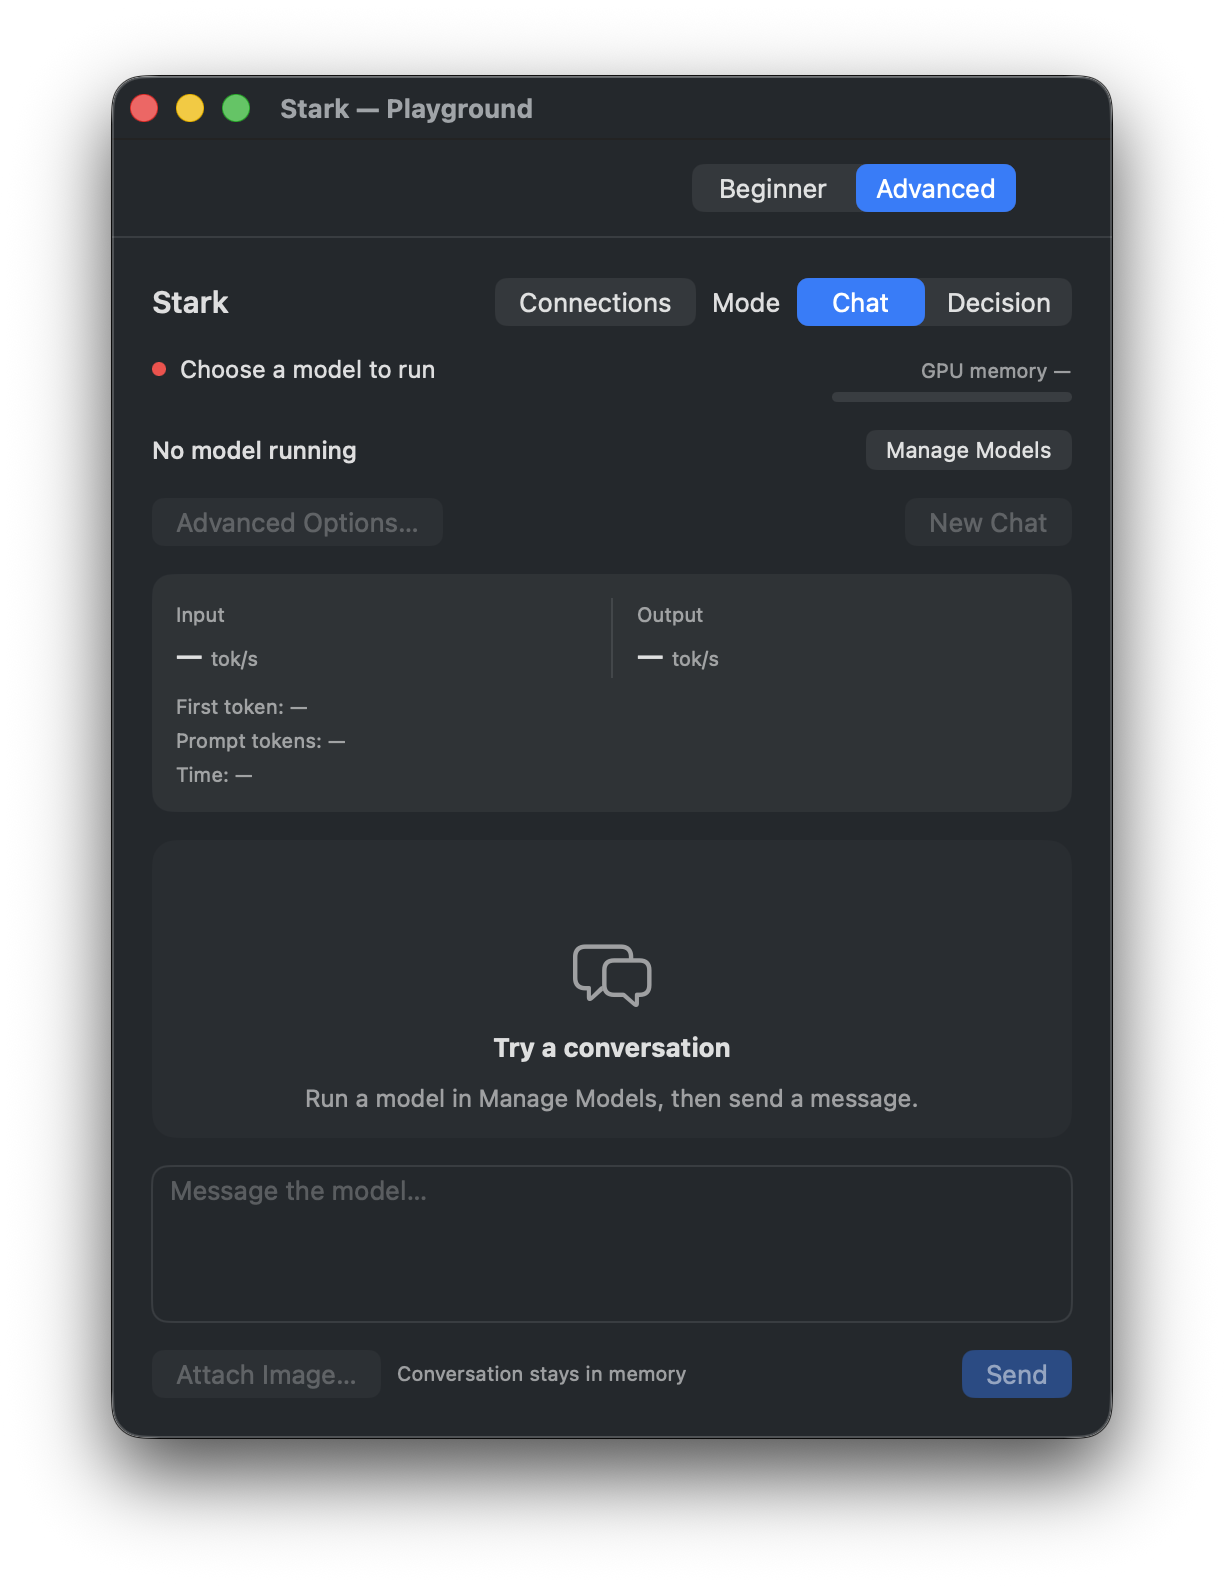
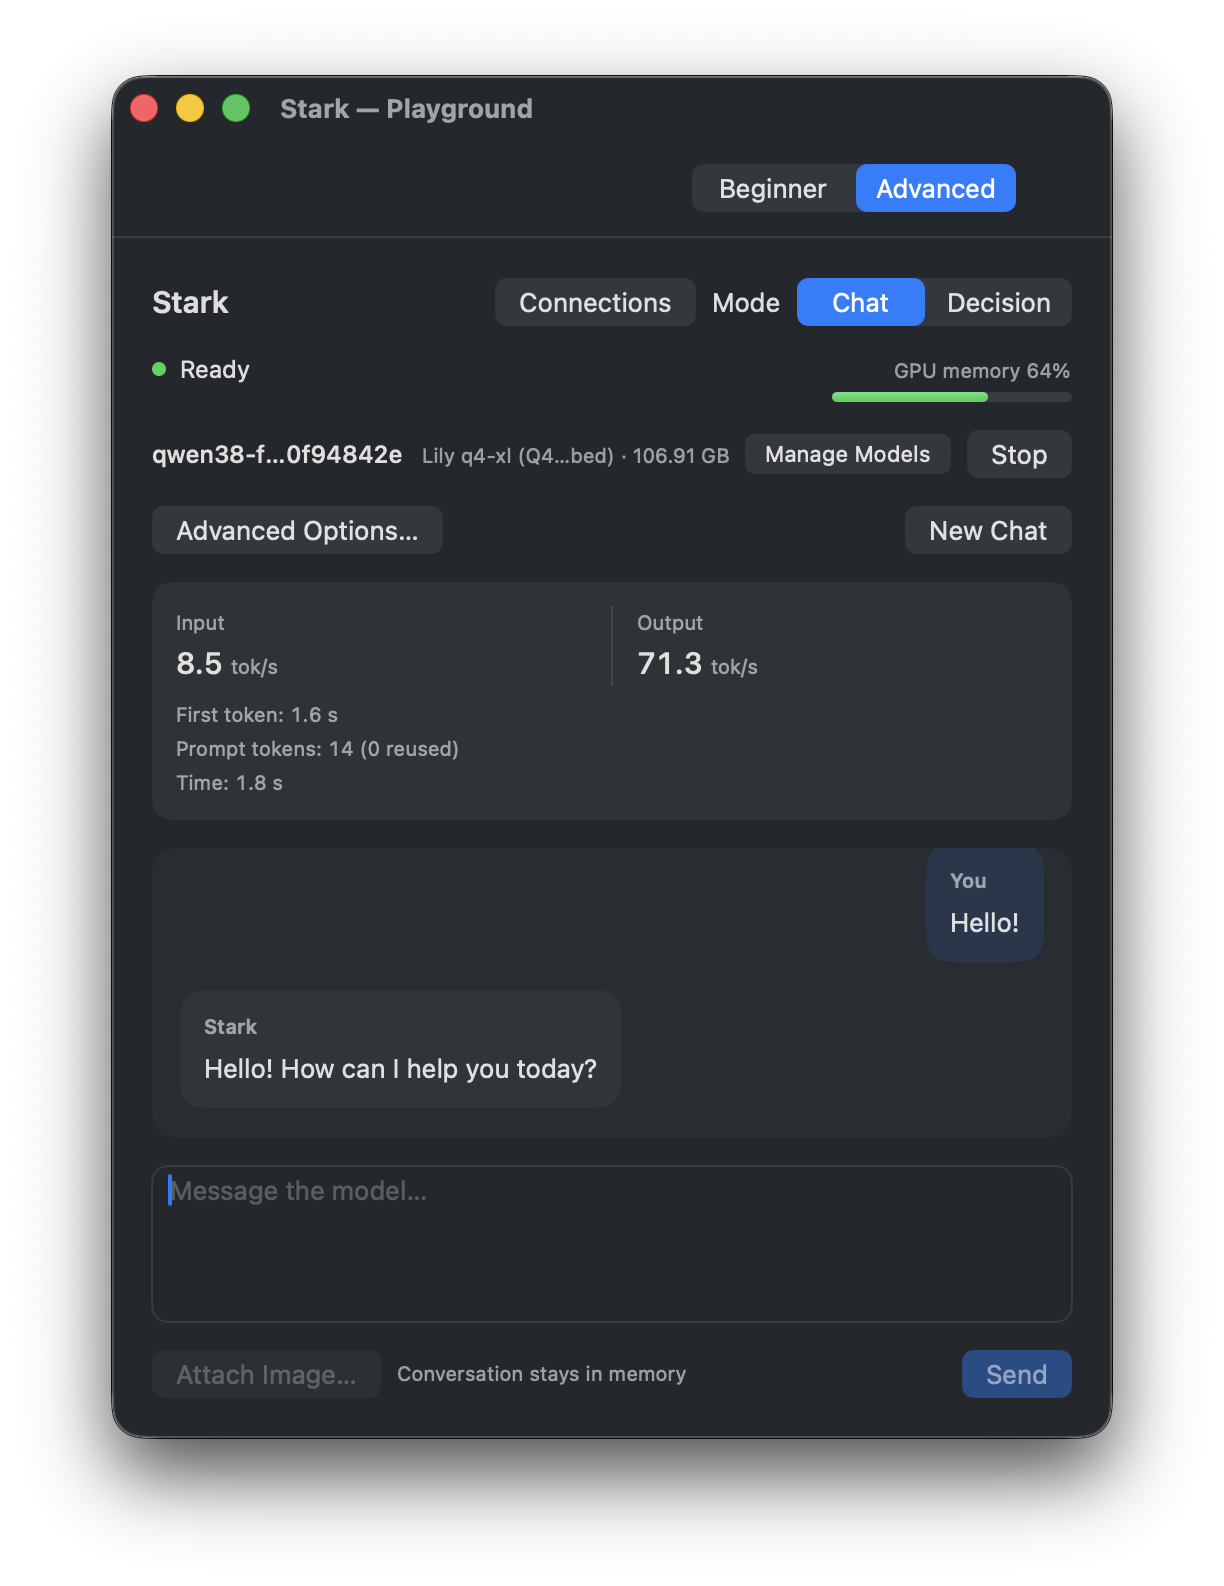
docs(website): show an active Playground conversation
AI-Assisted: codex

diff --git a/website/public/index.html b/website/public/index.html
@@ -55,7 +55,7 @@
       <div class="product-gallery">
         <figure class="product-shot"><a href="assets/stark-guided-setup.png" aria-label="View full screenshot of Stark Guided Setup"><img src="assets/stark-guided-setup.png" width="1624" height="1594" alt="Stark Guided Setup with writing, files and coding starting points and a five-step setup sidebar" loading="lazy" decoding="async"></a><figcaption><span class="shot-index">01 / GET STARTED</span><h3>Find a starting point.</h3><p>Beginner checks memory, GPU budget and storage before recommending a model.</p></figcaption></figure>
         <figure class="product-shot"><a href="assets/stark-model-catalog.png" aria-label="View full screenshot of Stark Model Catalog"><img src="assets/stark-model-catalog.png" width="1504" height="1546" alt="Stark Model Catalog with supported model families and tabs for installed models and source imports" loading="lazy" decoding="async"></a><figcaption><span class="shot-index">02 / MAKE IT YOURS</span><h3>Choose your model.</h3><p>Advanced gives you the model catalog, source imports and generation settings.</p></figcaption></figure>
-        <figure class="product-shot"><a href="assets/stark-playground.png" aria-label="View full screenshot of Stark Playground"><img src="assets/stark-playground.png" width="1224" height="1586" alt="Stark Playground in Chat mode with an empty conversation, message field and a switch to Decision mode" loading="lazy" decoding="async"></a><figcaption><span class="shot-index">03 / USE PLAYGROUND</span><h3>Chat and make decisions.</h3><p>Chat in Playground, or use JevK5 in Decision mode to choose among multiple options and see its confidence.</p></figcaption></figure>
+        <figure class="product-shot"><a href="assets/stark-playground.png" aria-label="View full screenshot of Stark Playground"><img src="assets/stark-playground.png" width="1224" height="1586" alt="Stark Playground in Chat mode with a running model, a short greeting exchange, request statistics and a switch to Decision mode" loading="lazy" decoding="async"></a><figcaption><span class="shot-index">03 / USE PLAYGROUND</span><h3>Chat and make decisions.</h3><p>Chat in Playground, or use JevK5 in Decision mode to choose among multiple options and see its confidence.</p></figcaption></figure>
       </div>
       <div class="workflow-strip" aria-label="How Stark works with your apps">
         <article><span>01</span><strong>Stark runs the model.</strong><p>Download once, start it on your Mac, and keep Stark open while you work.</p></article>

diff --git a/docs/archive/runs/2026-11-06-website-screenshot-replacements.md b/docs/archive/runs/2026-11-06-website-screenshot-replacements.md
@@ -7,3 +7,7 @@ The owner supplied three replacement screenshots in the stated order. These repl
[3 lines of base64/hex data omitted]
+
+## Updated Playground capture
+
[1 lines of base64/hex data omitted]
